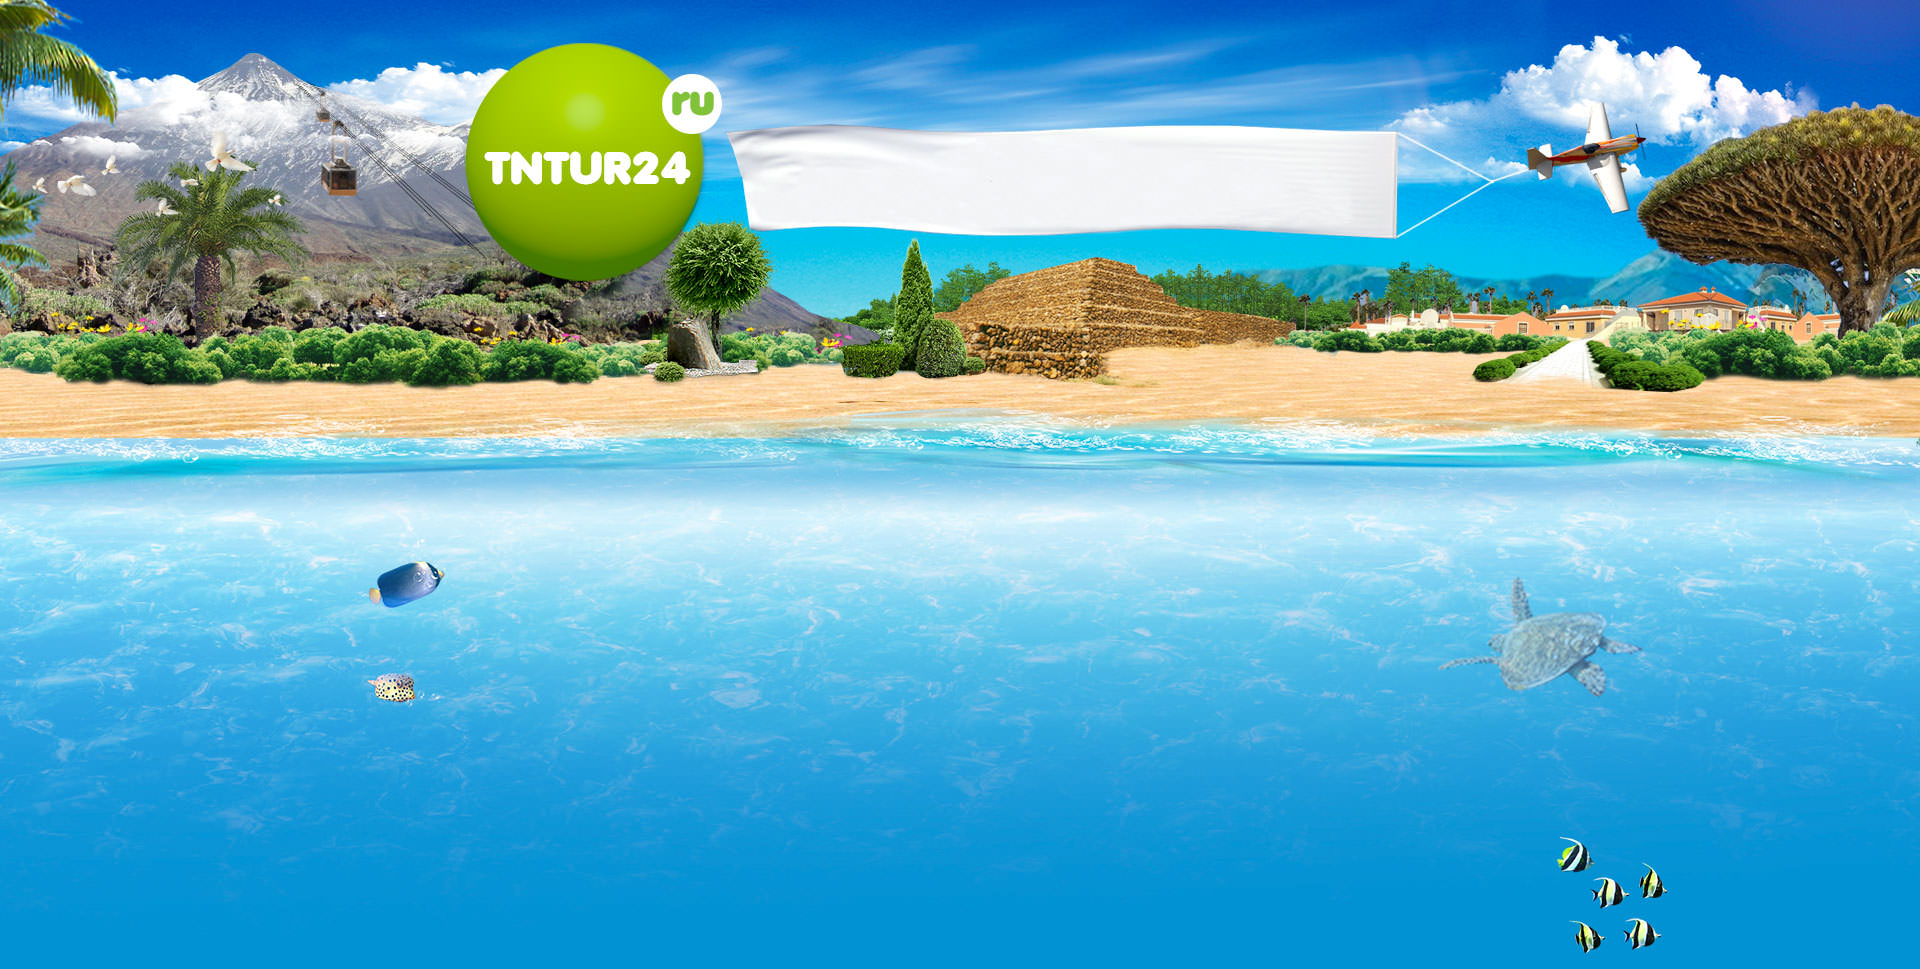
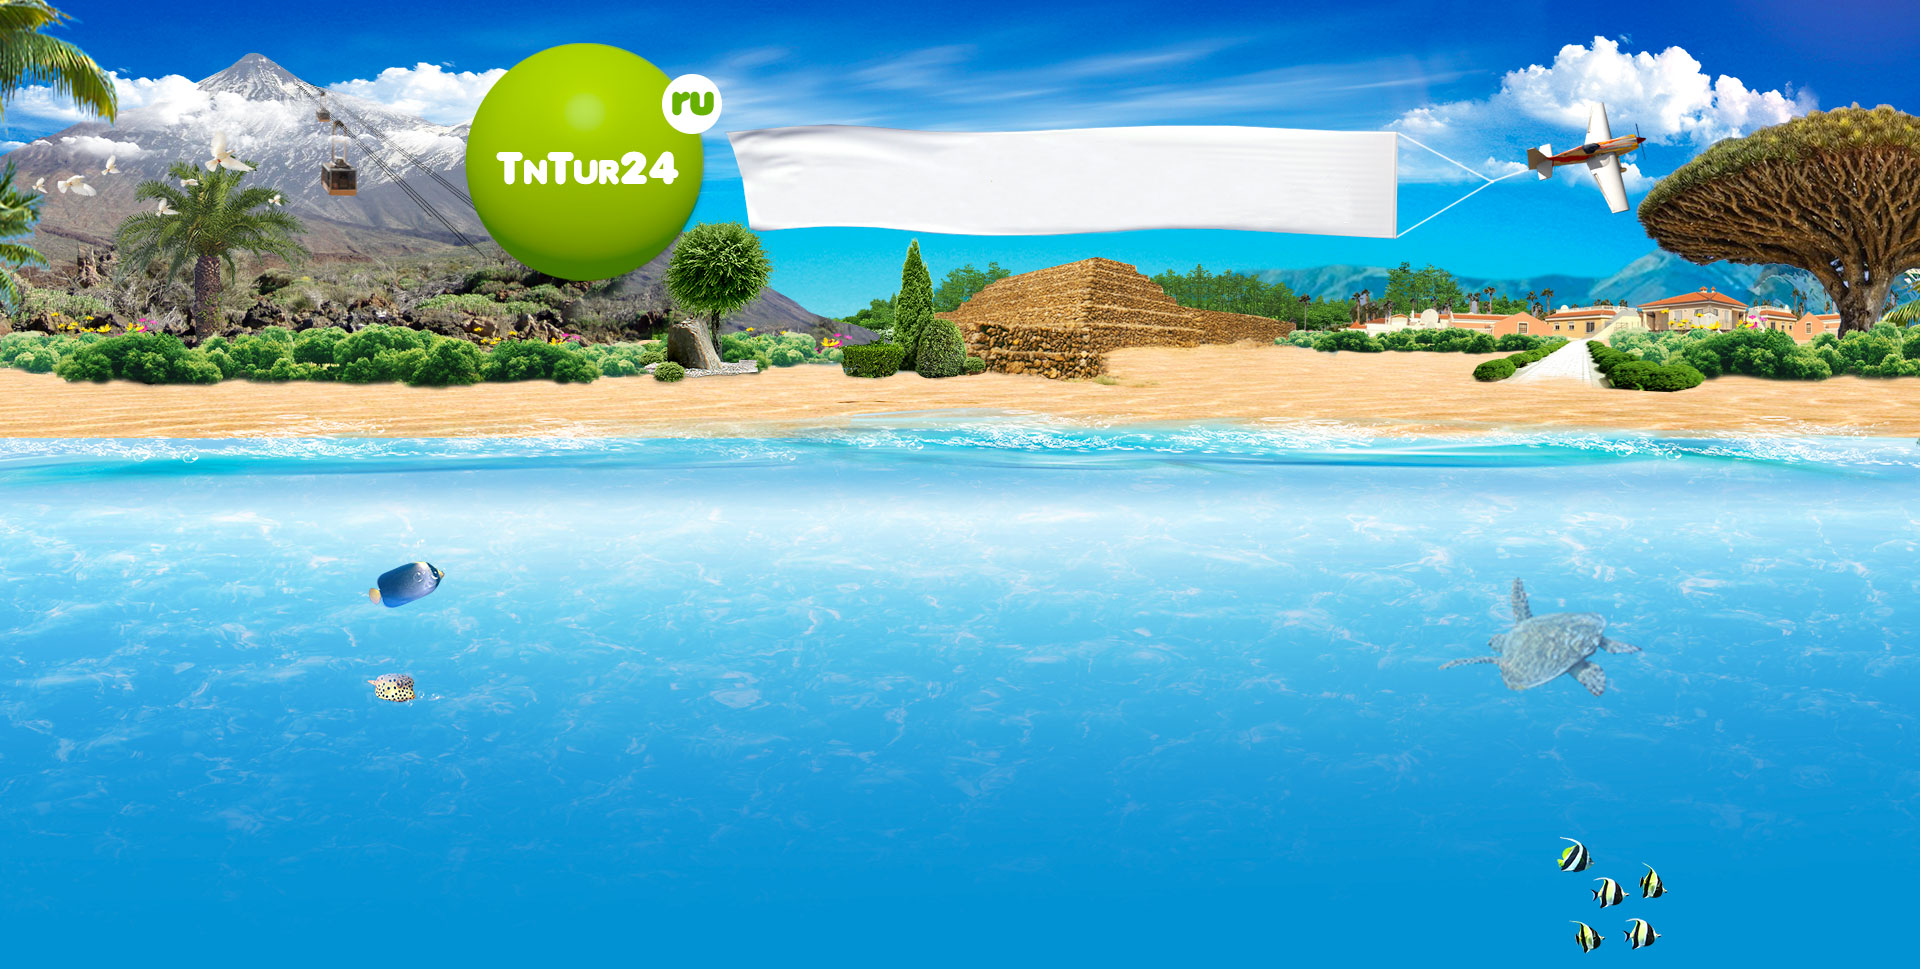
Подправил лого и футер (счетчик)

Changed region(s): [[0.25, 0.1548, 0.375, 0.2167], [0.375, 0.2477, 0.4062, 0.3096], [0.3438, 0.0929, 0.375, 0.1238]]

diff --git a/app/webroot/css/style.css b/app/webroot/css/style.css
@@ -166,17 +166,19 @@ h2 { font-size: 18px; color: #86ba27; text-transform: uppercase; font-weight: 70
 	.footer .left { float: left; }
 	.footer .copyright {  display: inline-block; padding: 0 0 0 7px; vertical-align: middle;}
     .footer .menu { float: left; margin: 5px 0 0 0; }
-        .footer .menu a { color: #2b2b2b; text-decoration: none; font-size: 16px; display: inline-block; margin-left: 35px; }
+        .footer .menu a { color: #2b2b2b; text-decoration: none; font-size: 16px; display: inline-block; margin-left: 25px; }
 		.footer .menu a:first-child {}
         .footer .menu a:hover, .footer .menu a.active { text-decoration: underline; }
 
-	.footer .socials { float: right; margin: 5px 50px 0 0;}
-	.footer .bottom { clear: both; }
+	.footer .socials { float: right; margin: 5px 40px 0 0;}
+	.footer .bottom { clear: both; position: relative; }
 		.footer .bottom a { color: #525252; text-decoration: none;}
 		.footer .bottom .skype, .footer .bottom .letter { margin-right: 11px;}
 		.footer .bottom .phoneFooter { margin-right: 5px;}
 	.footer .phones {  display: inline-block; vertical-align: middle; margin: 0 0 0 35px;}
 	.footer .skypeName  { margin: 0 40px 0 40px }
+
+.yandexMetrika { position: absolute; right: 40px;}
 
     
 .pagination { text-align: center; padding-bottom: 0;}
